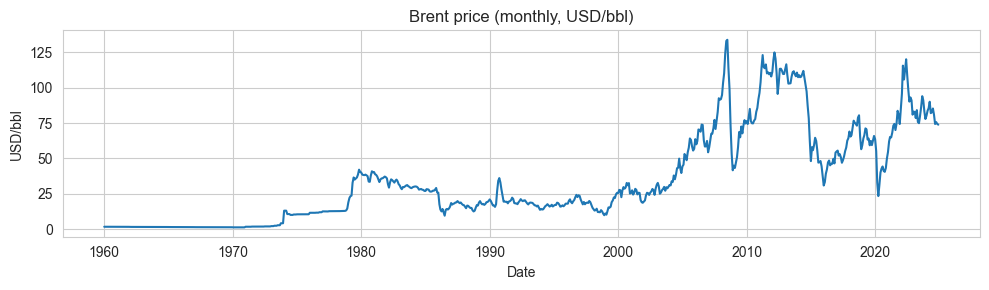
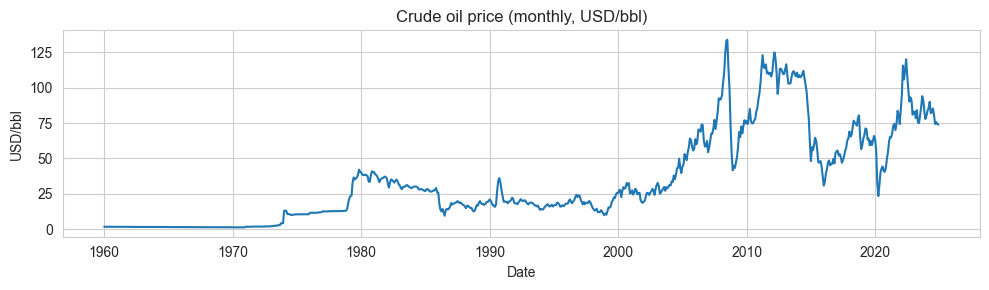
fix title for graphs

Changed region(s): [[0.3943, 0.031, 0.6673, 0.0931]]

diff --git a/index.md b/index.md
@@ -98,7 +98,7 @@ layout: full
   </p>
 
   <p class="ds-figure-intro">
-    The figure below shows the evolution of Brent crude oil prices at a monthly frequency from
+    The figure below shows the evolution of crude oil prices at a monthly frequency from
     <strong>1960 to 2025</strong>, providing a long-run view of the environment in which firms and sectors operate.
     While this full history offers useful context, our empirical analysis focuses on the period from
     <strong>January 2000 to April 1, 2020</strong>, the window over which sector and industry data are consistently available.
@@ -114,7 +114,7 @@ layout: full
   </div>
 
   <p class="ds-caption">
-    <strong>Figure 2.</strong> Brent crude oil price (monthly, USD per barrel), 1960–2025.
+    <strong>Figure 2.</strong> Crude oil price (monthly, USD per barrel), 1960–2025.
   </p>
 
 </section>
@@ -163,13 +163,14 @@ layout: full
   how different sectors and industries respond when confronted with unexpected changes
   in a key macroeconomic input.
 </p>
-<p class="ds-lead">
-    To concretize this definition, we identify oil price shocks using monthly
-    Brent crude oil log returns. Months corresponding to unusually large price
-    movements are classified as shocks.
-  </p>
 
 <section class="ds-wrap ds-figure-section">
+
+  <p class="ds-figure-intro">
+    To concretize this definition, we identify oil price shocks using monthly
+    crude oil log returns. Months corresponding to unusually large price
+    movements are classified as shocks.
+  </p>
 
   <div class="ds-embed">
     <iframe
@@ -182,7 +183,7 @@ layout: full
   </div>
 
   <p class="ds-caption">
-    <strong>Figure 3.</strong> Oil price shocks identified from monthly Brent crude oil
+    <strong>Figure 3.</strong> Oil price shocks identified from monthly Crude oil
     log returns over the period January 2000 to April 1, 2020. Shocks correspond to
     extreme movements relative to typical month-to-month variation.
   </p>
